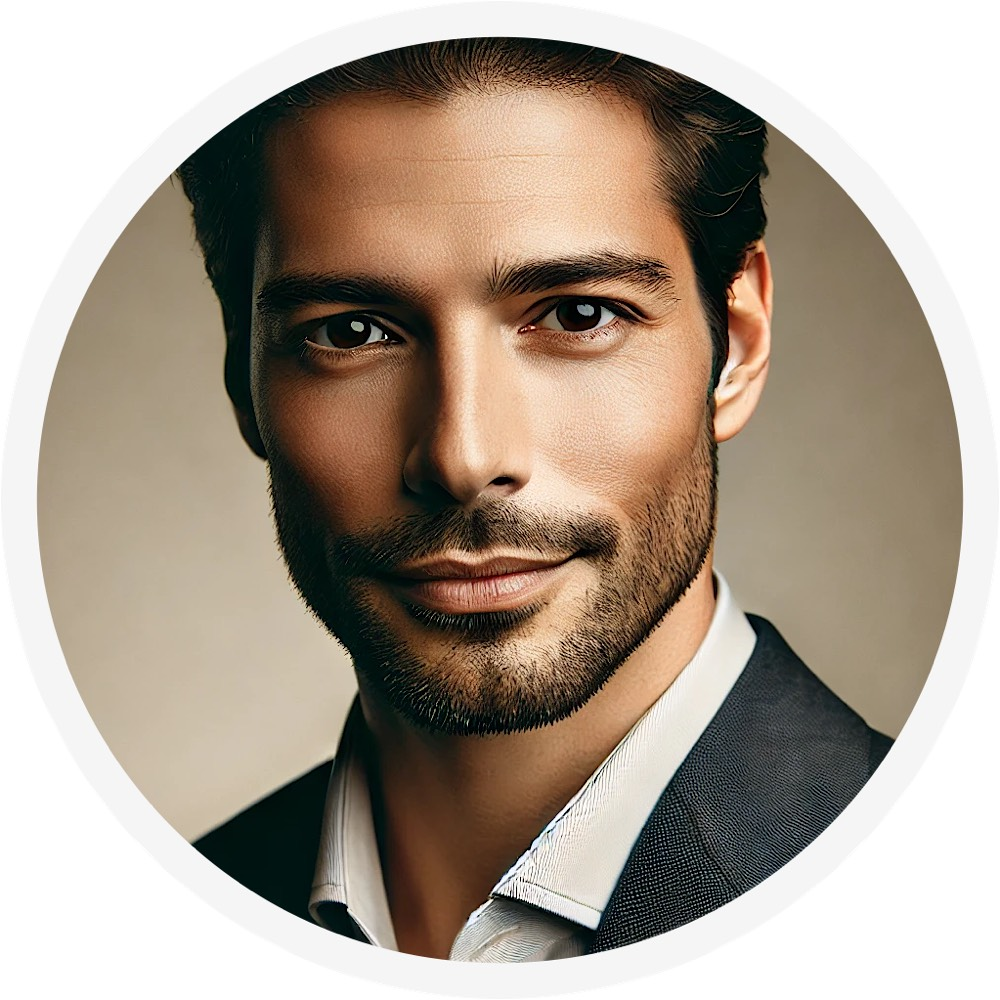
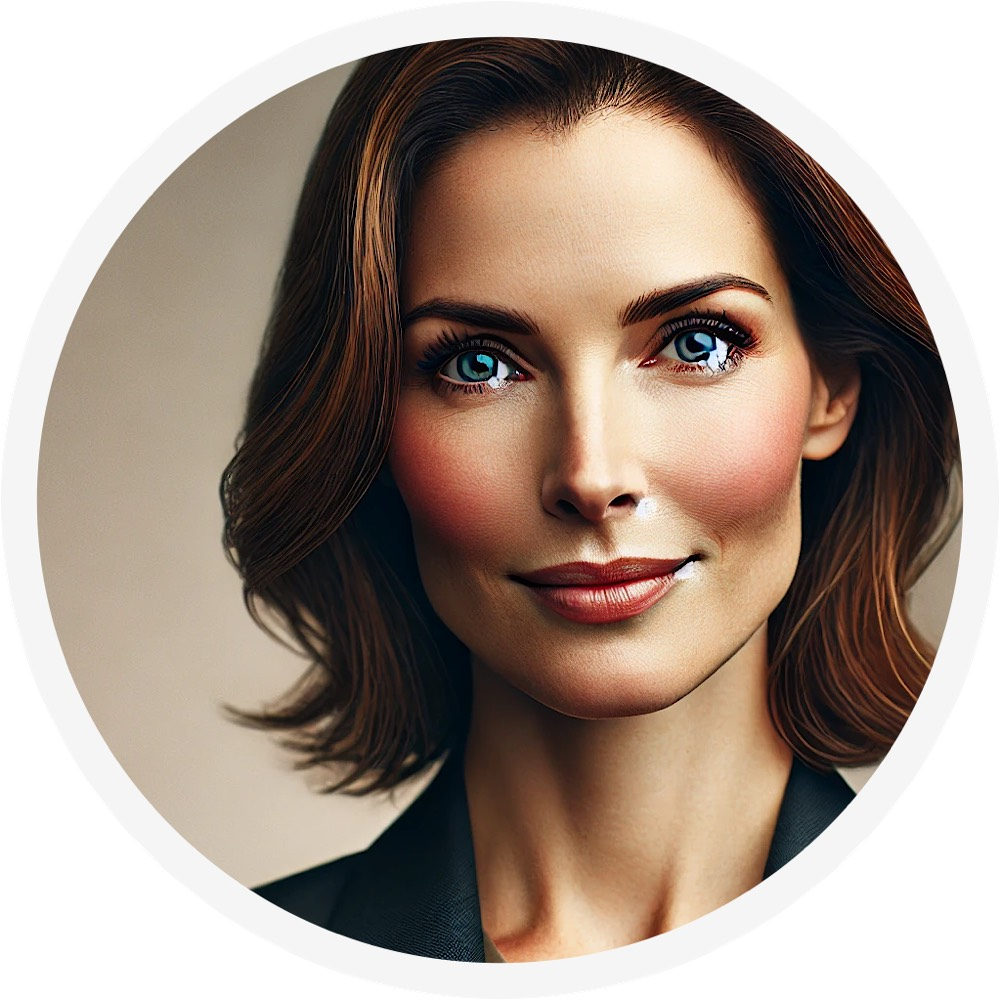
Adjust Employer service and rearranged some visual markup

diff --git a/nwrevised/src/app/northwind-ui/employees/employees.component.ts b/nwrevised/src/app/northwind-ui/employees/employees.component.ts
@@ -1,7 +1,9 @@
-import { Component, EventEmitter, OnInit, Output, ViewChild, viewChild } from '@angular/core';
+import { Component, EventEmitter, inject, OnInit, Output, ViewChild, viewChild } from '@angular/core';
 import { EmployeeComponent } from './employee/employee.component';
 import { Employee } from '../../utilities/models/employee';
 import { TerritoriesComponent } from "./territories/territories.component";
+import { Subscription } from 'rxjs';
+import { EmployeeService } from '../../utilities/services/employee/employee.service';
 
 @Component({
   selector: 'app-employees',
@@ -12,36 +14,31 @@ import { TerritoriesComponent } from "./territories/territories.component";
 })
 export class EmployeesComponent implements OnInit {
 selectedEmployee:Employee = {} as Employee;
+isLoading= false;
+employees:Employee[] = [];
+employeesList!:Subscription;
+_employeeService = inject(EmployeeService);
+ profile_pic!: string;
 
 @ViewChild(TerritoriesComponent) territoriesComponent!: TerritoriesComponent
-
-employees:Employee[] = [
-  {employeeId: 1,
-  firstName: 'Nancy',
-  lastName: 'Kevinson',
-  title: 'Sales Boss',
-  city: 'Seattle'},
-  {employeeId: 2,
-  firstName: 'David',
-  lastName: 'Davolio',
-  title: 'Sales Tech',
-  city: 'Seattle'},
-  {employeeId: 3,
-  firstName: 'Mike',
-  lastName: 'Williamson',
-  title: 'Sales Representative',
-  city: 'Seattle'}
-];
 
 
 ngOnInit(): void {
   console.log(this.employees)
+  this.isLoading = true;
+  this.employeesList = this._employeeService.get().subscribe(
+    (response) => {
+      this.isLoading= false;
+      this.employees = response
+    }
+  );
 }
 
 onSelect(employee:Employee) {
   this.selectedEmployee = employee;
   console.log(employee, 'Employee handled at right level');
-  this.territoriesComponent.onSelectTerritories(employee.employeeId)
+  this.territoriesComponent.onSelectTerritories(employee.employeeId);
+  this.profile_pic = `/${employee.firstName?.toLocaleLowerCase()}.png`
 }
 
 }

diff --git a/nwrevised/src/app/northwind-ui/employees/employees.component.html b/nwrevised/src/app/northwind-ui/employees/employees.component.html
@@ -1,5 +1,6 @@
 <ng-content select="h2"></ng-content>
-<div id="employee-details">
+@if(selectedEmployee){
+<section id="employee-details">
     <ul>
     @for(employee of employees; track employee.employeeId){
         <li>
@@ -12,15 +13,25 @@
     }
     </ul>
 
-    @if(selectedEmployee){
-    <div>
-        <p>{{selectedEmployee.firstName}}</p>
-        <p>{{selectedEmployee.lastName}}</p>
-        <p>{{selectedEmployee.title}}</p>   
-        <p>{{selectedEmployee.city}}</p>
-        <p>{{selectedEmployee.country}}</p>
-        <p>{{selectedEmployee.postalCode}}</p>
-    </div>
-    <app-territories #territories></app-territories>
-    }
-</div>
+    <article class="employee-profile">
+        <div class="employee-profile__greeting">
+            <div class="employee-profile__name">
+                <p>{{selectedEmployee.firstName}}</p>
+                <p>{{selectedEmployee.lastName}}</p>
+                <p class="employee-profile__profession">{{selectedEmployee.title}}</p>  
+            </div>
+            <img [src]="profile_pic" class="employee-profile__image">
+        </div>
+
+        <div class="employee-profile__location">
+            <p>{{selectedEmployee.city}} ,</p>
+            <p>{{selectedEmployee.country}}, </p>
+            <p>{{selectedEmployee.postalCode}}</p>
+        </div>
+        <div class="employee-profile__notes">
+            <p>{{selectedEmployee.notes}}</p>
+        </div>
+        <app-territories #territories></app-territories>
+    </article>
+</section>
+}

diff --git a/nwrevised/src/app/northwind-ui/employees/employees.component.scss b/nwrevised/src/app/northwind-ui/employees/employees.component.scss
@@ -1,9 +1,60 @@
 #employee-details{
     display: flex;
+    height:350px;
     
     ul {
         list-style: none;
         margin: 0;
         padding: 0;
+    
+        li{
+            border-bottom: 1px solid #ccc;
+        }
+
+        li:hover{
+            cursor: pointer;
+            background-color: #ccc;
+            color:#fff;
+        }
+    }
+
+    .employee-profile {
+        margin-left: 20px;
+
+        p{
+            margin:0;
+            padding:0;
+        }
+
+        &__greeting {
+            display: flex;
+            justify-content: space-between;
+        }
+
+        &__name {
+            width: 80%;
+            display: flex;
+            flex-direction: column;
+            justify-content: flex-end; 
+            height:100px;
+            margin-bottom:35px; 
+            font-size:larger;
+        }
+
+        &__image {
+            width: 100px;
+            height: 100px;
+            margin-right:10px;
+        }
+
+        &__location {
+            display: flex;
+            font-size:small;
+            font-weight:bold;
+        }
+
+        &__notes{
+            font-size:small;
+        }
     }
 }

diff --git a/nwrevised/src/app/northwind-ui/dash/dash.component.scss b/nwrevised/src/app/northwind-ui/dash/dash.component.scss
@@ -1,10 +1,31 @@
-app-dash {
-    background-color: #F2F0F0
+h2{
+    font-family: 'Franklin Gothic Medium', 'Arial Narrow', Arial, sans-serif;
+    font-size:large
+}
+#detail-wrapper{
+    display: flex;
+    justify-content: space-between;
+
+    #main-wrapper {
+        display: flex;
+        flex-direction: column;
+        margin-top:15px;
+        margin-left:20px;
+        padding:15px;
+        width:60%;
+        background-color: #fff;
+        -webkit-border-radius: 10x 10x 10x 10x;
+        border-radius: 10x 10x 10x 10x;
+    }
+    
+    #territory-graph {
+        width:35%;
+        height:400px;
+        margin-top:15px;
+        margin-right:20px;
+        background-color: #fff;
+        -webkit-border-radius: 10x 10x 10x 20p10xx;
+        border-radius: 10x 10x 10x 10x;
+    }
 }
 
-#main-wrapper {
-    display: flex;
-    flex-direction: column;
-    margin:0 auto;
-    width:70%;
-}

diff --git a/nwrevised/src/app/utilities/services/employee/employee.service.ts b/nwrevised/src/app/utilities/services/employee/employee.service.ts
@@ -1,6 +1,6 @@
 import { inject, Injectable } from '@angular/core';
 import { Employee } from '../../models/employee';
-import { catchError, Observable, tap, throwError} from 'rxjs';
+import { catchError, map, Observable, tap, throwError} from 'rxjs';
 import { HttpClient } from '@angular/common/http';
 
 @Injectable({
@@ -15,15 +15,10 @@ export class EmployeeService {
   constructor() { }
 
   get(): Observable<Employee[]> {
-    var response = this._http.get<Employee[]>(`${this.url}/Employee/`)
-      .pipe(
-        tap(items => {
-          console.log(items, 'Employees')
-        }),
-        catchError(this.handleError),
-      )
-
-    return response
+    return this._http.get<Employee[]>(`${this.url}/Employee/`).pipe(
+      map(employees => employees.slice(0, 7)), 
+      catchError(this.handleError)
+    );
   }
 
   private handleError(error: Response) {

diff --git a/nwrevised/src/app/northwind-ui/employees/territories/territories.component.scss b/nwrevised/src/app/northwind-ui/employees/territories/territories.component.scss
@@ -1,0 +1,21 @@
+
+.employee-territories {
+    border:3px dashed #ccc;
+    padding:10px;
+    background-color:#f3f6f8;
+    margin-top:10px;
+    display: flex ;
+
+    h3{
+        font-family: 'Franklin Gothic Medium', 'Arial Narrow', Arial, sans-serif;
+        font-size:large;
+        margin-right:20px;
+    }
+
+    p{
+        font-size:smaller;
+        padding:0 10px;
+        margin:0;
+    }
+
+}

diff --git a/nwrevised/src/app/northwind-ui/employees/territories/territories.component.html b/nwrevised/src/app/northwind-ui/employees/territories/territories.component.html
@@ -1,5 +1,8 @@
-@if(isSelected){
-    @for(territory of territoriesList; track territory.territoryId){
-        <p>{{territory.territoryId}}</p>
-    }
+@if(territoriesList.length >= 1){
+    <div class="employee-territories">
+    <h3>Employee Territories:</h3>
+        @for(territory of territoriesList; track territory.territoryId){
+            <p>{{territory.territoryId}}</p>
+        }
+    </div>
 }

diff --git a/nwrevised/src/app/northwind-ui/employees/employee/employee.component.scss b/nwrevised/src/app/northwind-ui/employees/employee/employee.component.scss
@@ -1,12 +1,15 @@
 .employee-item {
     display: flex;
-    flex-direction: column;
-    width:250px;
-    
-    &__name {
+    width:250px; 
+    padding:15px;;
+    font-family: 'Roboto', sans-serif;
+    font-size:small;
+   
+    .name {
         width:100%;
         margin-right:20px;
         padding:0;
         margin: 0;
+        font-weight:bold;
     }
 }

diff --git a/nwrevised/src/styles.scss b/nwrevised/src/styles.scss
@@ -1,4 +1,10 @@
 /* You can add global styles to this file, and also import other style files */
+@import url('https://fonts.googleapis.com/css2?family=Roboto:wght@400;700&display=swap');
+
+body {
+  font-family: 'Roboto', sans-serif;
+  background-color: #f3f6f8;
+}
 
 .loading-container {
     display:block;

diff --git a/nwrevised/src/app/northwind-ui/employees/employee/employee.component.ts b/nwrevised/src/app/northwind-ui/employees/employee/employee.component.ts
@@ -10,10 +10,12 @@ import { Component, computed, input } from '@angular/core';
 export class EmployeeComponent {
 firstName = input<string>()
 lastName = input<string>()
+photo = input<string>()
 title = input<string>()
 
 
 name = computed(()=>{
   return `${this.firstName()} ${this.lastName()}`
 })  
+ 
 }

diff --git a/nwrevised/src/app/northwind-ui/dash/dash.component.html b/nwrevised/src/app/northwind-ui/dash/dash.component.html
@@ -1,8 +1,8 @@
+<section id="detail-wrapper">
 <div id="main-wrapper">
-    <h1>Dashboard</h1>
-
     <app-employees>
-        <h2>Employees</h2>
+        <h2>Employee Details</h2>
     </app-employees> 
-
 </div>
+<div id="territory-graph"></div>
+</section>

diff --git a/nwrevised/src/app/nav/nav.component.html b/nwrevised/src/app/nav/nav.component.html
@@ -1,4 +1,4 @@
-<section id="navigation" class="sticky-xl-top">
+<section id="navigation" class="'sticky-xl-top">
     <nav>
         <ul>
             <li id="logo"><a routerLink="/dashboard" routerLinkActive="active"><img src="/hammer_star.jpeg"></a></li>
